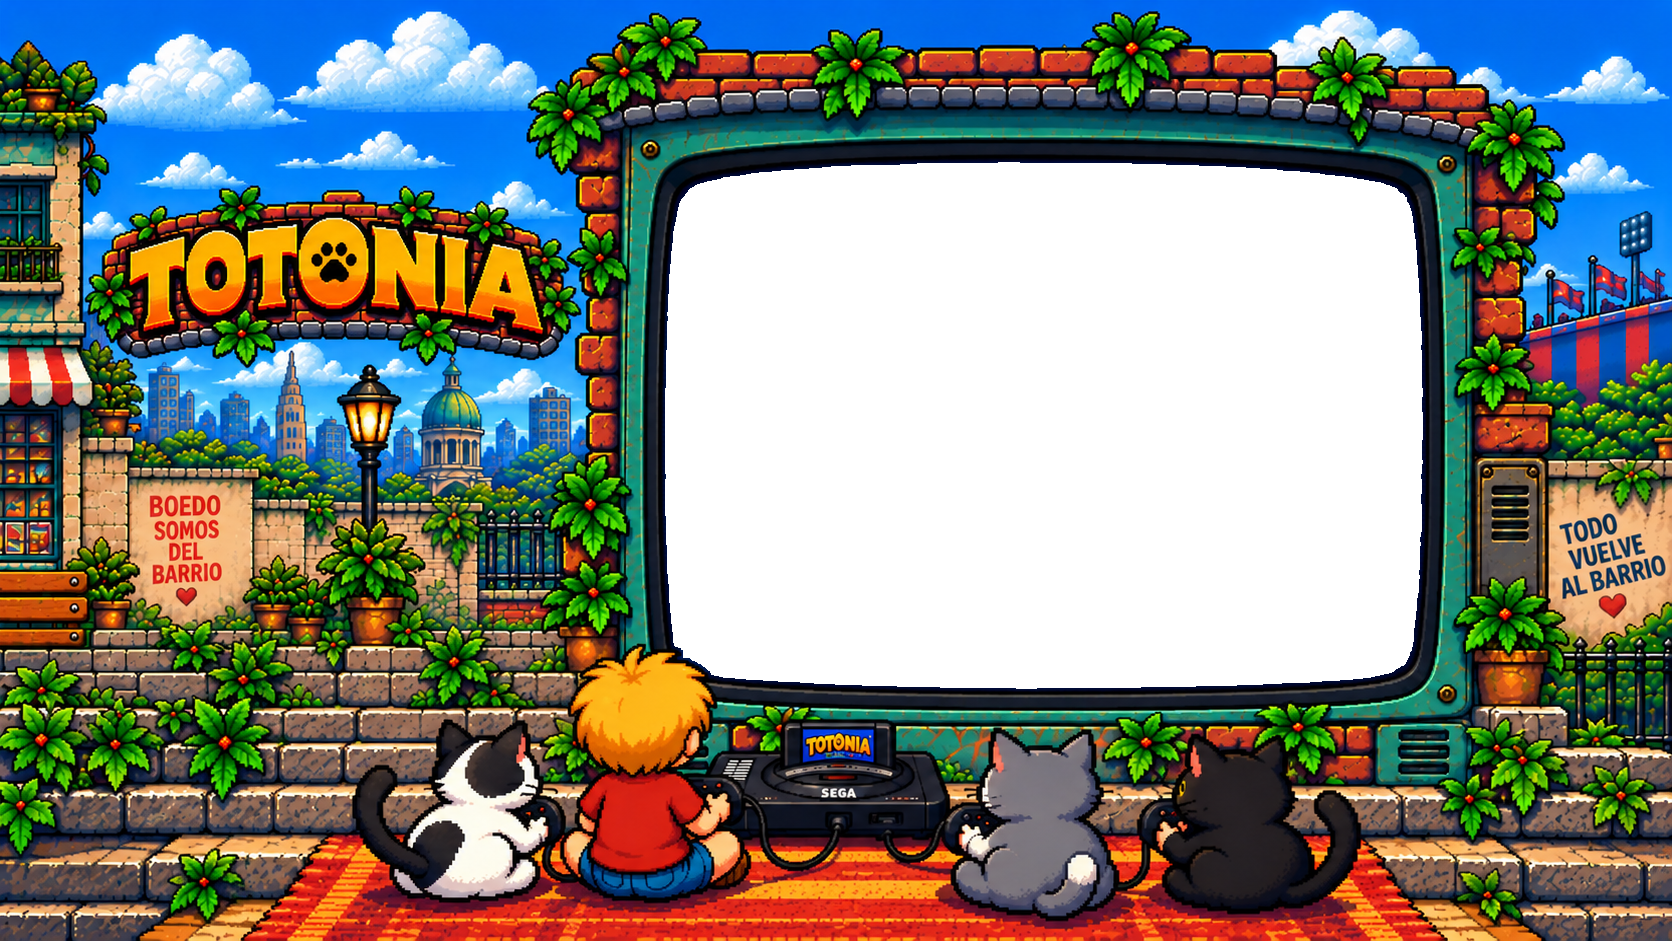
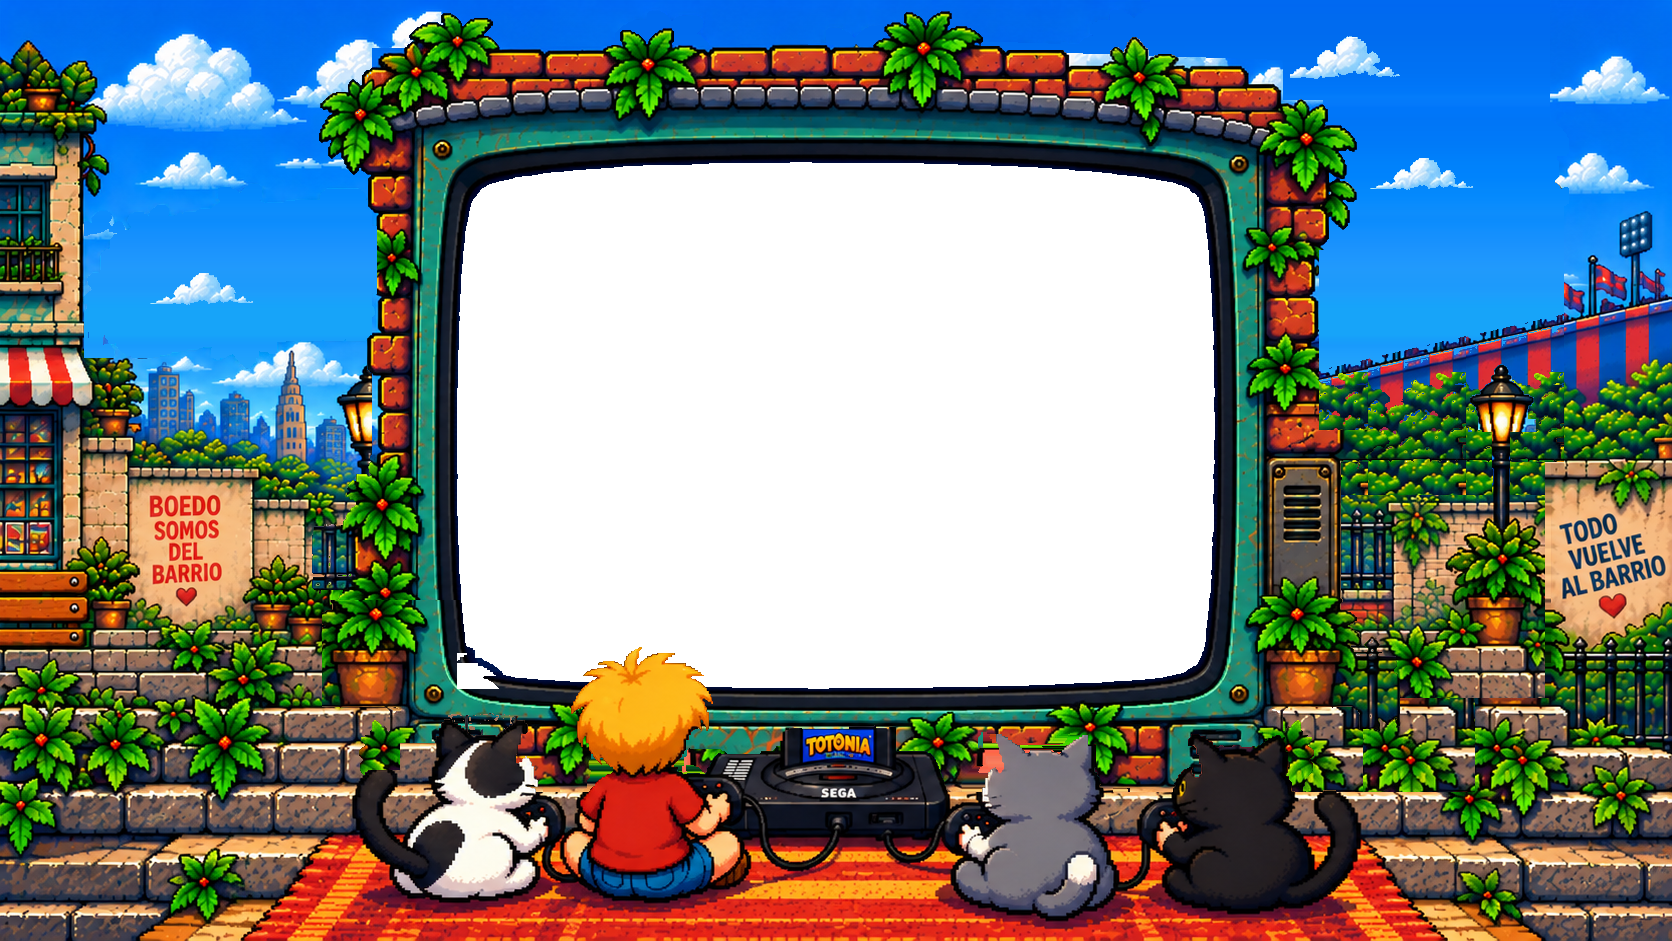
Centrar arte de la TV, desbloquear audio y corregir ruta de gamepad
- Arte centrado (TV en x=457) generado con scripts/build-centered-art.py
- Geometria y metadata actualizadas; docs/screen-alignment.md
- app.js: reanuda el AudioContext en pointerdown/keydown/touchstart y muestra aviso
- index.html: gamepad-mapping.js (antes 404)
- QA con Playwright y capturas en docs/qa

diff --git a/app.js b/app.js
@@ -269,3 +269,34 @@ gameMount?.addEventListener("pointerdown", focusEmulatorCanvas);
 window.addEventListener("beforeunload", stopGamepadPolling);
 
 loadRom();
+
+// Desbloqueo de audio: Genesis.min.js crea el AudioContext al cargar, sin gesto
+// del usuario, y solo lo reanuda en touchstart. En escritorio queda "suspended".
+const audioHint = document.createElement("div");
+audioHint.className = "audio-hint";
+audioHint.textContent = "Toca o presiona una tecla para activar el sonido";
+audioHint.hidden = true;
+document.body.appendChild(audioHint);
+
+const audioSuspended = () => {
+  const ctx = window.GENESIS_AUDIO_CONTEXT;
+  return Boolean(ctx) && ctx.state === "suspended";
+};
+
+const unlockAudio = () => {
+  const ctx = window.GENESIS_AUDIO_CONTEXT;
+  if (!ctx || ctx.state !== "suspended") {
+    return;
+  }
+  ctx.resume().catch(() => {});
+  window.GENESIS_NEXT_AUDIO_TIME = 0;
+  window.GENESIS_AUDIO_START_TIME = null;
+};
+
+["pointerdown", "keydown", "touchstart"].forEach((type) => {
+  window.addEventListener(type, unlockAudio, { capture: true });
+});
+
+setInterval(() => {
+  audioHint.hidden = !(emulatorRunning && audioSuspended());
+}, 500);

diff --git a/styles.css b/styles.css
@@ -120,3 +120,22 @@ body {
 .art-master {
   z-index: 0;
 }
+
+.audio-hint {
+  position: fixed;
+  left: 50%;
+  bottom: 12px;
+  transform: translateX(-50%);
+  padding: 6px 12px;
+  border-radius: 4px;
+  background: rgba(0, 0, 0, 0.65);
+  color: #fff;
+  font: 12px/1.2 system-ui, sans-serif;
+  letter-spacing: 0.02em;
+  pointer-events: none;
+  z-index: 10;
+}
+
+.audio-hint[hidden] {
+  display: none;
+}

diff --git a/assets/screen-geometry.css b/assets/screen-geometry.css
@@ -2,7 +2,7 @@
 :root {
   --stage-width: 1672;
   --stage-height: 941;
-  --screen-left: 39.7727272727%;
+  --screen-left: 27.3325358852%;
   --screen-top: 17.2157279490%;
   --screen-width: 45.3349282297%;
   --screen-height: 56.0042507970%;

diff --git a/index.html b/index.html
@@ -22,7 +22,7 @@
     </section>
   </main>
   <script src="./js/Genesis.min.js"></script>
-  <script src="./js/gamepad-mappings.js"></script>
+  <script src="./js/gamepad-mapping.js"></script>
   <script src="./app.js"></script>
 </body>
 

diff --git a/scripts/build-centered-art.py b/scripts/build-centered-art.py
@@ -1,0 +1,223 @@
+#!/usr/bin/env python3
+"""Genera el arte centrado de la demo web de Totonia (TV centrada, sin logo de fondo).
+
+Entrada: los assets ORIGINALES aprobados (master 1672x941 con la TV en x=665).
+Salida (en assets/): desktop-master.png, desktop-overlay-screen-hole.png, screen-poster.png
+centrados (vidrio en x=457). Los personajes conservan sus pixeles y posicion.
+Las mascaras de TV y personajes van embebidas (se obtuvieron con GrabCut y retoques a mano
+en el mockup aprobado) para que el resultado sea reproducible sin GrabCut.
+
+Uso: python3 scripts/build-centered-art.py [--src DIR_ASSETS_ORIGINALES] [--out DIR]
+Requiere: numpy, pillow, opencv-python-headless.
+"""
+import argparse, base64, os, sys, zlib
+import cv2, numpy as np
+from PIL import Image, ImageFilter
+ap=argparse.ArgumentParser(); here=os.path.dirname(os.path.abspath(__file__))
+ap.add_argument('--src',default=os.path.join(here,'..','assets'))
+ap.add_argument('--out',default=os.path.join(here,'..','assets'))
+args=ap.parse_args()
+R=args.src.rstrip('/')+'/'
[2 lines of base64/hex data omitted]
+def unpack(b): return np.unpackbits(np.frombuffer(zlib.decompress(base64.b64decode(b)),np.uint8))[:941*1672].reshape(941,1672).astype(bool)
+orig_img=Image.open(R+'desktop-master.png').convert('RGB')
+if orig_img.size!=(1672,941): sys.exit('desktop-master.png debe ser el master original de 1672x941')
+orig=np.array(orig_img).astype(np.int16)
+H,W,_=orig.shape
+YS=792; DXC=0; DXT=-208
+CHAR_FULL=unpack(MASK_CHAR)
+char=CHAR_FULL.copy()
+char[YS:,:]=False
+def is_sky(a): return (a[...,2]>200)&(a[...,0]<140)&(a[...,1]>60)&(a[...,1]<215)
+sky=is_sky(orig)
+# per-row sky color (median of sky pixels in row)
+skyrow=np.zeros((H,3),np.int16); last=np.array([0,105,243])
+for y in range(H):
+    px=orig[y][sky[y]&(orig[y][:,2]>235)&(orig[y][:,0]<40)]
+    if len(px)>30: last=np.median(px,axis=0).astype(np.int16)
+    skyrow[y]=last
+# smooth row colors
+for c in range(3): skyrow[:,c]=np.convolve(np.pad(skyrow[:,c],5,mode='edge'),np.ones(11)/11,'valid').astype(np.int16)
+
+# ---- 1. remove logo ----
+src=orig.copy()
+logo=np.zeros((H,W),bool)
+y0,y1,x0,x1=180,357,84,584
+logo[y0:y1,x0:x1]=~sky[y0:y1,x0:x1]
+# whites (clouds) inside logo bbox are logo highlights? keep clouds only where outside logo core -> treat light pixels next to blue as cloud
+green=(orig[...,1]>orig[...,0]+20)&(orig[...,1]>orig[...,2])
+dark=orig.sum(-1)<120
+for (a,b) in [(205,290),(390,455),(530,585)]:
+    reg=np.zeros((H,W),bool); reg[357:372,a:b]=True
+    logo|=reg&(green|dark)&~sky
+# exclude existing clouds above logo bbox not attached: compute components of logo mask touching core
+n,lab=cv2.connectedComponents(logo.astype(np.uint8))
+core=lab[260,300]; keepl=set(np.unique(lab[230:330,120:560]))-{0}
+logo=np.isin(lab,list(keepl))
+logo=cv2.dilate(logo.astype(np.uint8),np.ones((3,3),np.uint8))>0
+logo[:, :84]=False; logo[:, 590:]=False
+ys,xs=np.nonzero(logo)
+src[ys,xs]=skyrow[ys]
+# add a cloud: copy cloud patch from orig sky (x 145..255, y 150..195) into logo area
+def paste_cloud(dst,sx0,sy0,sx1,sy1,dx,dy):
+    p=orig[sy0:sy1,sx0:sx1]
+    m=(p.sum(-1)>560)  # whites
+    m=cv2.dilate(m.astype(np.uint8),np.ones((3,3),np.uint8))>0
+    m&=~is_sky(p)|(p.sum(-1)>560)
+    reg=dst[dy:dy+(sy1-sy0),dx:dx+(sx1-sx0)]
+    reg[m]=p[m]
+paste_cloud(src,140,145,262,197,150,265)
+paste_cloud(src,140,145,262,197,400,215)
+
+# ---- 2. TV mask (orig coords) ----
+poly=np.array([(580,48),(1000,44),(1490,60),(1490,100),(1530,100),(1530,455),(1548,455),(1548,700),(1466,700),(1466,YS),(580,YS)],np.int32)
+pm=np.zeros((H,W),np.uint8); cv2.fillPoly(pm,[poly],1)
+tv=unpack(MASK_TV)  # mascara final de la TV (orig coords)
+
+# TV pixels with characters substituted
+tvimg=src.copy()
+# bottom-left quadrant: rebuild as mirror of bottom-right for a consistent bezel corner
+RY0,RX0,RX1=600,530,800
+tv[600:,:530]=False
+for y in range(RY0,YS):
+    for x in range(RX0,RX1):
+        mx=2088-x
+        tv[y,x]=tv[y,mx]
+        if tv[y,mx]: tvimg[y,x]=src[y,mx]
+charD=cv2.dilate(char.astype(np.uint8),np.ones((5,5),np.uint8))>0
+charD[YS:]=False
+cy,cx=np.nonzero(charD&tv)
+mx=2088-cx
+inR=(cy>=600)&(cx>=530)&(cx<800)
+ok=~charD[cy,mx]&tv[cy,mx]&~inR
+ok2=inR&~charD[cy,mx]
+tvimg[cy[ok],cx[ok]]=src[cy[ok],mx[ok]]
+# fallback: tile patch from row neighbours (search horizontally nearest clean pixel within tv)
+bad=~ok&~ok2
+bad_y,bad_x=cy[bad],cx[bad]
+clean=tv&~charD
+clean[600:,530:800]=False
+clean[600:,1288:1558]&=~charD[600:,530:800][:,::-1]
+for y,x in zip(bad_y,bad_x):
+    for d in range(1,400):
+        for xx in (x+d,x-d):
+            if 0<=xx<W and clean[y,xx]:
+                tvimg[y,x]=src[y,xx]; break
+        else: continue
+        break
+
+def shift(a,dx,fill_edge=True):
+    out=np.zeros_like(a)
+    if dx<0:
+        out[:, :W+dx]=a[:, -dx:]
+        if fill_edge: out[:, W+dx:]=a[:, W+dx:] if a.ndim==2 else a[:, W+dx:]
+    else:
+        out[:, dx:]=a[:, :W-dx]
+    return out
+
+# ---- 3. background ----
+bg=src.copy()
+oldtv=cv2.dilate(tv.astype(np.uint8),np.ones((5,5),np.uint8))>0
+oldtv[600:]=False; oldtv[:,1550:]=False
+ys,xs=np.nonzero(oldtv); bg[ys,xs]=skyrow[ys]
+# right side rebuild (x 1300..1672, rows < 698)
+XA=1300
+rows=np.arange(H)
+oldd=cv2.dilate(tv.astype(np.uint8),np.ones((9,9),np.uint8))>0
+# L0 sky: orig where not old TV, else flat
+bg[:698,XA:]=src[:698,XA:]
+m=oldd[:290,XA:]; ys,xs=np.nonzero(m); bg[ys,xs+XA]=skyrow[ys]
+bg[:698,XA:1550]=skyrow[:698,None,:]
+# L1 stadium: extend the stand following its perspective slope; no extra towers/flags
+P0=1564
+top=lambda x: 330-0.232*(x-1530)
+bg[205:462,XA:P0]=skyrow[205:462,None,:]
+for x in range(XA,P0):
+    sx=P0+((x-P0)%98)
+    dy=int(round(top(x)-top(sx)))
+    y0=int(top(sx))-8
+    for y in range(y0,462):
+        p=src[y,sx]; ty=y+dy
+        if ty<462 and not is_sky(p[None,None])[0,0] and p.sum()<500: bg[ty,x]=p
+# old-TV leaf stubs over stand right of P0: same rule
+for x in range(P0,1600):
+    m=oldd[205:462,x]
+    if m.any():
+        sx=P0+((x-P0)%98) if x>=P0+98 else x
+        pass
+# bushes in front (unshifted tile, green pixels only)
+for x in range(XA,1600):
+    sx=P0+((x-P0)%98)
+    col=src[372:462,sx]
+    gr=(col[:,1]>col[:,0]+15)&(col[:,1]>col[:,2]+15)|((col.sum(-1)<170)&(np.arange(90)>12))
+    if x>=P0: gr&=oldd[372:462,x]
+    bg[372:462,x][gr]=col[gr]
+    if x<P0:
+        for y in range(415,495 if x<1545 else 462):
+            q=bg[y,x]
+            if is_sky(q[None,None])[0,0] or q.sum()>500: bg[y,x]=src[y if y<462 else y-45,sx]
+# L3 mirrored wall/fence/pots rows>=495 for x<1545
+for x in range(XA,1545):
+    sx=528-(x-1342)
+    col=src[495:698,sx]; ns=~is_sky(col[None])[0]
+    bg[495:698,x][ns]=col[ns]
+# L4 lamp
+LM=np.zeros((H,W),np.uint8)
+for x in range(1462,1540):
+    sx=528-(x-1342)
+    for y in range(360,540):
+        if (y<432 and 335<=sx<=402) or (y>=432 and 361<=sx<=378):
+            p=src[y,sx]
+            if not is_sky(p[None,None])[0,0] and not (p.sum()>420 and p[2]>=p[0]-5): bg[y,x]=p; LM[y,x]=1
+LC=cv2.morphologyEx(LM,cv2.MORPH_CLOSE,np.ones((9,9),np.uint8))
+ys,xs=np.nonzero((LC>0)&(LM==0))
+bg[ys,xs]=src[ys,528-(xs-1342)]
+paste_cloud(bg,1555,138,1665,197,1555,138)
+paste_cloud(bg,140,145,262,197,1370,150)
+bg[:130,1150:1300]=skyrow[:130,None,:]
+paste_cloud(bg,1555,50,1672,105,1290,30)
+d=(bg[:205,1300:1600].sum(-1)<250)
+ys,xs=np.nonzero(d); bg[ys,xs+1300]=skyrow[ys]
+for y in range(455,700):
+    for x in range(1549,1530,-1):
+        if is_sky(bg[y:y+1,x:x+1])[0,0] or np.abs(bg[y,x]-skyrow[y]).sum()<30: bg[y,x]=bg[y,x+1]
+# stairs under old base
+for x in range(1236,1475):
+    bg[698:YS,x]=src[698:YS,1475+((x-1475)%112)]
+# ---- 4. paste TV ----
+out=bg.copy()
+ys,xs=np.nonzero(tv); nx=xs+DXT; v=(nx>=0)&(nx<W)
+out[ys[v],nx[v]]=tvimg[ys[v],xs[v]]
+# ---- 5. characters ----
+ys,xs=np.nonzero(char); out[ys,xs]=orig[ys,xs]
+new=out.clip(0,255).astype(np.uint8)
+
+# ---- overlay y poster ----
+ov=np.array(Image.open(R+'desktop-overlay-screen-hole.png').convert('RGBA'))
+char=CHAR_FULL
+H,W=new.shape[:2]
+pa=np.array(Image.open(R+'screen-poster.png').convert('RGB'))
+pm=char[162:162+527,665:665+758]
+pm=np.array(Image.fromarray(pm.astype(np.uint8)*255).filter(ImageFilter.MaxFilter(7)))>0
+pa[pm]=pa[:,::-1][pm]
+poster=Image.fromarray(pa)
+hole=ov[...,3]<128
+sx,sy,sw,sh=665,162,758,527
+glass=hole.copy()
+box=np.zeros_like(hole); box[sy:sy+sh,sx:sx+sw]=True
+glass|=char&box
+# fill concavities under Toto: rows in box, between hole columns
+for y in range(sy,sy+sh):
+    xs=np.nonzero(hole[y])[0]
+    if len(xs): glass[y,xs.min():xs.max()+1]=True
+DX=-208
+g2=np.zeros_like(glass); g2[:, :W+DX]=glass[:, -DX:]
+g2&=~char
+ovn=np.dstack([new,np.where(g2,0,255).astype(np.uint8)])
+O=args.out.rstrip('/')+'/'
+os.makedirs(O,exist_ok=True)
+Image.fromarray(new).save(O+'desktop-master.png')
+Image.fromarray(ovn,'RGBA').save(O+'desktop-overlay-screen-hole.png')
+poster.save(O+'screen-poster.png')
+print('OK: screen x=457 y=162 w=758 h=527 -> --screen-left: 27.3325358852%')

diff --git a/scripts/qa-playwright.py b/scripts/qa-playwright.py
@@ -1,0 +1,29 @@
+import json, subprocess, time, sys
+from playwright.sync_api import sync_playwright
+srv=subprocess.Popen([sys.executable,'-m','http.server','8765'],cwd='.',stdout=subprocess.DEVNULL,stderr=subprocess.DEVNULL)
+time.sleep(1)
+res=[]
+try:
+  with sync_playwright() as p:
+    b=p.chromium.launch(executable_path='/home/bondi/.cache/ms-playwright/chromium_headless_shell-1194/chrome-linux/headless_shell',args=['--autoplay-policy=document-user-activation-required'])
+    for w,h in [(1440,900),(1920,900),(1024,768),(768,1024)]:
+      pg=b.new_page(viewport={'width':w,'height':h}); errs=[]
+      pg.on('console',lambda m:errs.append(m.text) if m.type=='error' else None)
+      pg.on('pageerror',lambda e:errs.append(str(e)))
+      pg.on('requestfailed',lambda r:errs.append('reqfail '+r.url))
+      pg.on('response',lambda r:errs.append(f'{r.status} {r.url}') if r.status>=400 else None)
+      pg.goto('http://localhost:8765/'); pg.wait_for_timeout(3000)
+      before=pg.evaluate('window.GENESIS_AUDIO_CONTEXT&&window.GENESIS_AUDIO_CONTEXT.state')
+      hint=pg.evaluate('!document.querySelector(".audio-hint").hidden')
+      pg.screenshot(path=f'docs/qa/centered-{w}x{h}-before-click.png')
+      pg.mouse.click(w//2,h//2); pg.keyboard.press('Enter'); pg.wait_for_timeout(1000)
+      after=pg.evaluate('window.GENESIS_AUDIO_CONTEXT&&window.GENESIS_AUDIO_CONTEXT.state')
+      geo=pg.evaluate('''()=>{const r=e=>{const b=document.querySelector(e).getBoundingClientRect();return [b.x,b.y,b.width,b.height].map(v=>+v.toFixed(1))};
+        const c=document.querySelector("#game canvas");const cb=c&&c.getBoundingClientRect();
+        const z=e=>+getComputedStyle(document.querySelector(e)).zIndex||0;
+        return {slot:r(".screen-slot"),canvas:cb&&[cb.x,cb.y,cb.width,cb.height].map(v=>+v.toFixed(1)),overlay:r(".art-overlay"),artboard:r(".desktop-artboard"),order:[...document.querySelector(".desktop-artboard").children].map(e=>e.className)}}''')
+      pg.screenshot(path=f'docs/qa/centered-{w}x{h}.png')
+      res.append(dict(vp=f'{w}x{h}',audio_before=before,hint_shown=hint,audio_after=after,errors=errs,**geo)); pg.close()
+    b.close()
+finally: srv.terminate()
+print(json.dumps(res,indent=1))

diff --git a/docs/screen-alignment.md b/docs/screen-alignment.md
@@ -19,3 +19,28 @@ Chrome, local HTTP server, real bundled Genesis.js engine and ROM:
 Screenshots: [desktop](qa/desktop.png), [tablet portrait](qa/tablet-portrait.png), [solid aperture check](qa/aperture-check.png).
 
 The rounded CRT perimeter intentionally masks a narrow strip at the edges of the rectangular framebuffer. Tablet portrait keeps the complete approved composition centered, with space above and below.
+
+## Arte centrado (fix/centrado-y-audio)
+
+La TV se movió 208 px a la izquierda: el vidrio ahora está en x=457, y=162, 758 × 527 (`--screen-left: 27.3325358852%`; `art-metadata.json` y `aart-metadata.json`: `screen.x=457`, `leftPct=0.2733253588516746`). El logo TOTONIA del fondo se quitó y el fondo derecho se completó con tribuna, farol y muro. Toto, los gatos y la consola conservan píxeles y posición.
+
+`scripts/build-centered-art.py` genera `desktop-master.png`, `desktop-overlay-screen-hole.png` y `screen-poster.png` a partir de los assets ORIGINALES (master 1672×941 con la TV en x=665). Correrlo una sola vez sobre los originales; sobre el master ya centrado falla o da un resultado incorrecto.
+
+**`scripts/build-screen-art.py` asume el master viejo (x=665). No correrlo sobre el master nuevo**: sobrescribiría la geometría centrada con valores obsoletos.
+
+## Audio
+
+`Genesis.min.js` crea el `AudioContext` al cargar, sin gesto del usuario, y solo lo reanuda en `touchstart`; en escritorio quedaba `suspended`. `app.js` lo reanuda en `pointerdown`, `keydown` y `touchstart` (capture) y reinicia `GENESIS_NEXT_AUDIO_TIME=0` y `GENESIS_AUDIO_START_TIME=null`. Mientras siga suspendido se muestra el aviso "Toca o presiona una tecla para activar el sonido". El motor no se tocó.
+
+## QA del arte centrado
+
+`scripts/qa-playwright.py` (Chromium headless, servidor local). Resultados:
+
+| Viewport | Canvas = vidrio | Orden de capas | Errores de consola | AudioContext antes → después del clic/tecla |
+|---|---|---|---|---|
+| 1440×900 | sí (393.6, 184.3, 652.8×453.9) | slot → overlay → master | 0 | suspended → running |
+| 1920×900 | sí (597.5, 154.9, 725×504) | ídem | 0 | suspended → running |
+| 1024×768 | sí (279.9, 195, 464.2×322.8) | ídem | 0 | suspended → running |
+| 768×1024 | sí (209.9, 370.3, 348.2×242) | ídem | 0 | suspended → running |
+
+Capturas: `qa/centered-<ancho>x<alto>.png` (después de la interacción) y `qa/centered-<ancho>x<alto>-before-click.png` (con el aviso de audio).
